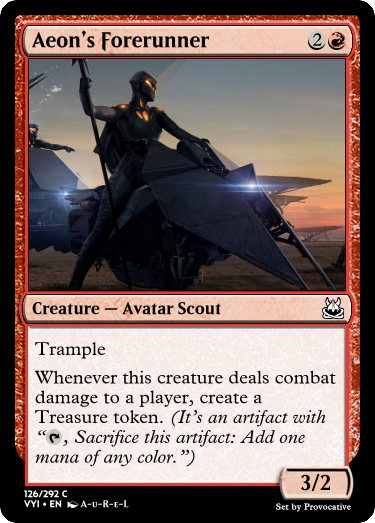
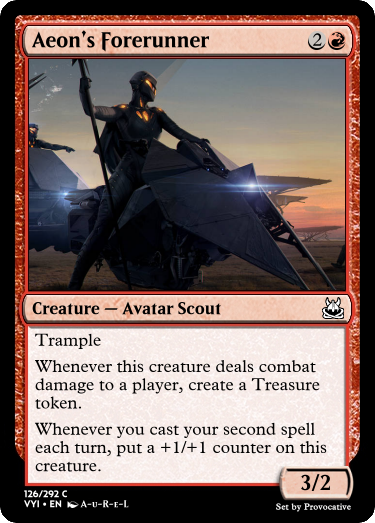
VYI second spell buffs

Changed region(s): [[0.088, 0.6119, 0.9093, 0.9178]]

diff --git a/previews/VYI.html b/previews/VYI.html
@@ -527,7 +527,7 @@
 				<div class="container"><img alt="/sets/VYI-files/img/269_IGF Supplyship.png" id="269_IGF Supplyship" data-flag="@X" onclick="openSidebar('269_IGF Supplyship',false)"></div>
 				<div class="container"><img alt="/sets/VYI-files/img/276_Prophetic Prism.png" id="276_Prophetic Prism" data-flag="@X" onclick="openSidebar('276_Prophetic Prism',false)"></div>
 				<div class="container"><img alt="/sets/VYI-files/img/280_Voidsent Stalker.png" id="280_Voidsent Stalker" data-flag="@X" onclick="openSidebar('280_Voidsent Stalker',false)"></div>
-				<div class="container"><img alt="/sets/VYI-files/img/281_Warp-Ring Terror.png" id="281_Warp-Ring Terror" data-flag="@X" onclick="openSidebar('281_Warp-Ring Terror',false)"></div>
+				<div class="container"><img alt="/sets/VYI-files/img/281_Warp-Ring Tyrant.png" id="281_Warp-Ring Tyrant" data-flag="@X" onclick="openSidebar('281_Warp-Ring Tyrant',false)"></div>
 				<div class="container"><img alt="/img/e.png" id="e" data-flag="@E" onclick="openSidebar('e',false)"></div>
 				<div class="container"><img alt="/img/e.png" id="e" data-flag="@E" onclick="openSidebar('e',false)"></div>
 				<div class="container"><img alt="/img/e.png" id="e" data-flag="@E" onclick="openSidebar('e',false)"></div>
